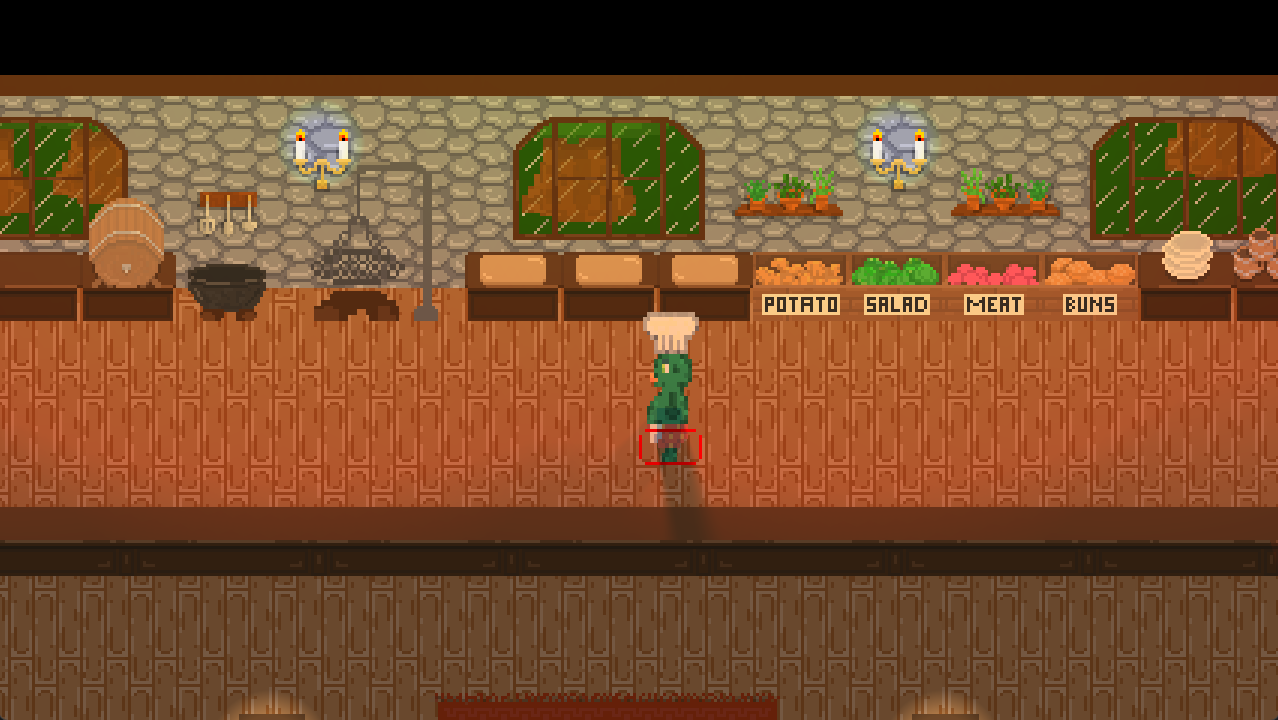
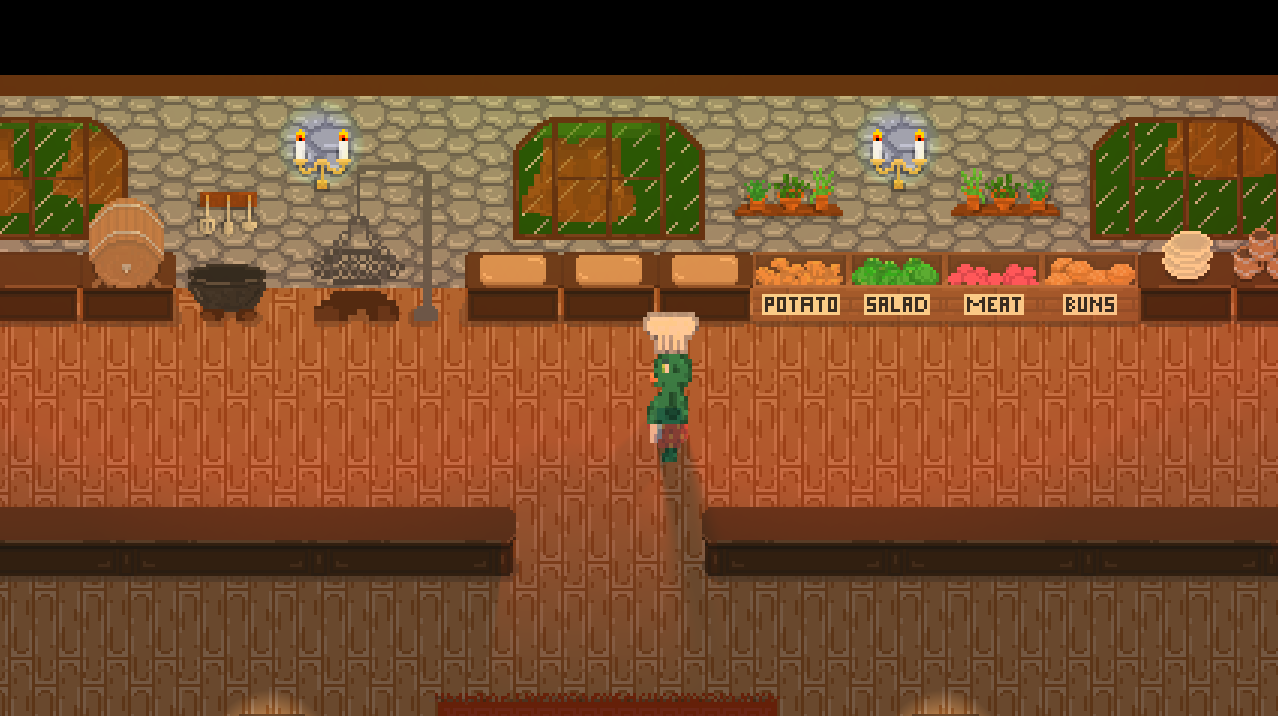
- random assignmend to table - despawn animation - middle bar fixed light and collision - mainmenu background changed - changed titel of window

diff --git a/SoftwareProjekt2024/Components/Guest.cs b/SoftwareProjekt2024/Components/Guest.cs
@@ -40,7 +40,7 @@ internal class Guest : Component
     public Order order;
     public int assignedTableID;
     public Table assignedTable;
-
+    public bool markForRemovel;
     private bool _drawGuest;
     private bool _drawSpawn;
     private bool _drawDespawn;
@@ -88,9 +88,11 @@ internal class Guest : Component
         _perspectiveManager = perspectiveManager;
         hasOrdered = false;
         hasFinishedEating = false;
+
         _drawGuest = false;
         _drawSpawn = true;
         _drawDespawn = false;
+        markForRemovel = false;
 
         _chosenTexture = ChooseTexture(CreateRandomIntegerTexture());
     }
@@ -133,8 +135,7 @@ internal class Guest : Component
         if (_spawnAnimationManager.activeFrame == 6 && _drawDespawn)
         {
             _drawDespawn = false;
-
-
+            leave();
         }
 
         _spawnAnimationManager.Update();
@@ -195,20 +196,39 @@ internal class Guest : Component
 
     public void assignTable()
     {
+        List<Table> _availableTables = new List<Table>();
+
         foreach (Table table in _perspectiveManager._tables)
         {
             if (!table.isClean() || table.hasGuest())   //pick first clean and free table
             {
                 continue;
             }
-            assignedTableID = table.tableID;
-            assignedTable = table;
-            table.guest = this;
-            position = new Vector2(table.position.X + 12, table.position.Y - 18);
-            //Debug.WriteLine("Table " + table.tableID + " assigned new guest");
-            break;
+
+            _availableTables.Add(table);
         }
+
+        int rndNum = CreateRandomIntegerTable(_availableTables.Count);
+
+        assignedTableID = _availableTables[rndNum].tableID;
+        assignedTable = _availableTables[rndNum];
+        _availableTables[rndNum].guest = this;
+        position = new Vector2(_availableTables[rndNum].position.X + 12, _availableTables[rndNum].position.Y - 18);
+
+
+        //assignedTableID = table.tableID;
+        //assignedTable = table;
+        //table.guest = this;
+        //position = new Vector2(table.position.X + 12, table.position.Y - 18);
+
         //negative feedback if no table is clean needed here
+    }
+
+    public static int CreateRandomIntegerTable(int _availableTables)
+    {
+        Random rnd = new();
+        int num = rnd.Next(0, _availableTables);
+        return num; //Generates a number between 0 and free tables  
     }
 
     public void eat()
@@ -274,9 +294,8 @@ internal class Guest : Component
             Debug.WriteLine($"Der Spieler hat {rewardPoints} Punkte erhalten.");
             Debug.WriteLine($"Der Spieler hat jetzt insgesamt {_ogerCook.totalPoints} Punkte und {_ogerCook.famePoints} Ruhm.");
 
-            //_drawDespawn = true;
+            _drawDespawn = true;
 
-            leave();
         }
         //add visual guest point feedback here
 
@@ -287,7 +306,8 @@ internal class Guest : Component
         _perspectiveManager.activeOrders.Remove(order);
         _totalGuestNumber--;
         assignedTable.guest = null;
-        _perspectiveManager._guests.Remove(this);
+        //_perspectiveManager._guests.Remove(this);
+        this.markForRemovel = true;
         _drawGuest = false;
         _availableGuests.Add(this._chosenTexture);
     }

diff --git a/SoftwareProjekt2024/Managers/InteractionManager.cs b/SoftwareProjekt2024/Managers/InteractionManager.cs
@@ -195,13 +195,13 @@ internal class InteractionManager
                 Trash.HandleInteraction(_ogerCook, _perspectiveManager, positionWhilePickedUp, this, _inputManager);
                 break;
 
-            case >= 20 and <= 31:
+            case >= 20 and <= 28:
                 int obereBarflächenID = tileID - 20;
                 Bar obereBarfläche = _perspectiveManager._barFlächen[obereBarflächenID];
                 obereBarfläche.HandleInteraction(_perspectiveManager, positionWhilePickedUp, _ogerCook, this, _inputManager);
                 break;
 
-            case >= 40 and <= 52:
+            case >= 40 and <= 48:
                 int untereBarflächenID = tileID - 40;
                 Bar untereBarfläche = _perspectiveManager._barFlächen[untereBarflächenID];
                 untereBarfläche.HandleInteraction(_perspectiveManager, positionWhilePickedUp, _ogerCook, this, _inputManager);

diff --git a/SoftwareProjekt2024/Screens/GamePlay.cs b/SoftwareProjekt2024/Screens/GamePlay.cs
@@ -386,6 +386,8 @@ public class GamePlay
                 guest.Update();
             }
 
+            _perspectiveManager._guests.RemoveAll(guest => guest.markForRemovel == true);
+
             // only Update Kessel/Grill/CookBook when Animation is supposed to play
             if (CookBook._playCookBookAnimation) { CookBook.Update(); }
             if (Kessel._activeKesselState == KesselStates.ANIMATIONKESSEL) { Kessel.Update(); }

diff --git a/SoftwareProjekt2024/Game1.cs b/SoftwareProjekt2024/Game1.cs
@@ -56,6 +56,7 @@ public class Game1 : Game
 
     public Game1()
     {
+
         _graphics = new GraphicsDeviceManager(this);
         Content.RootDirectory = "Content";
         IsMouseVisible = true;
@@ -77,6 +78,8 @@ public class Game1 : Game
 
     protected override void Initialize()
     {
+        Window.Title = "Tavern Trouble - Feast a Beast";
+
         base.Initialize();
     }
 
